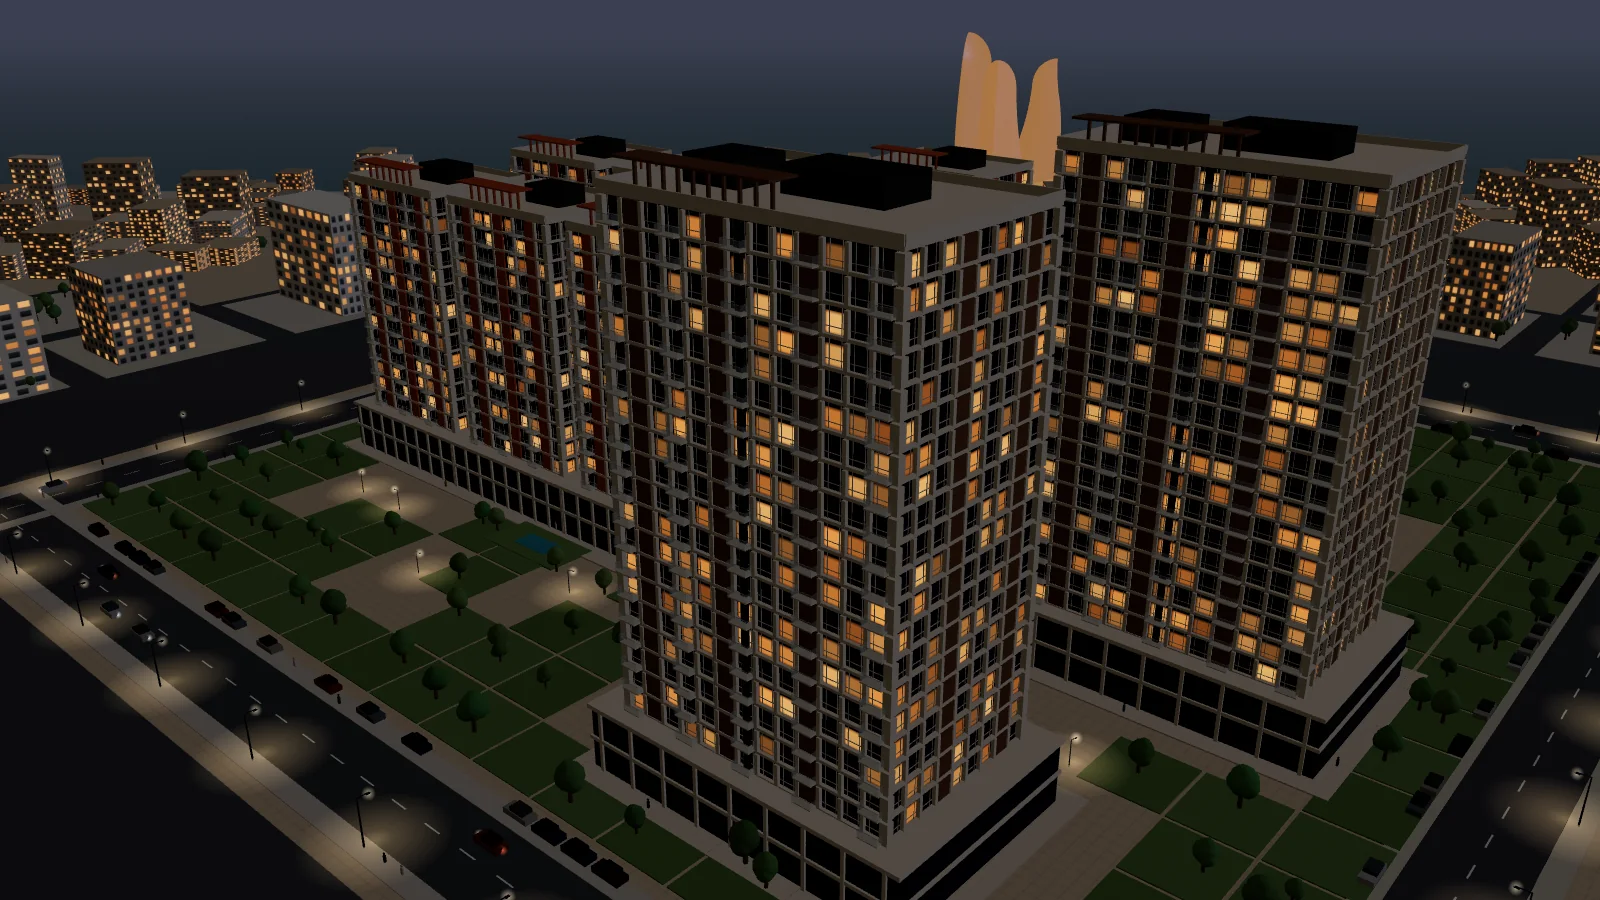
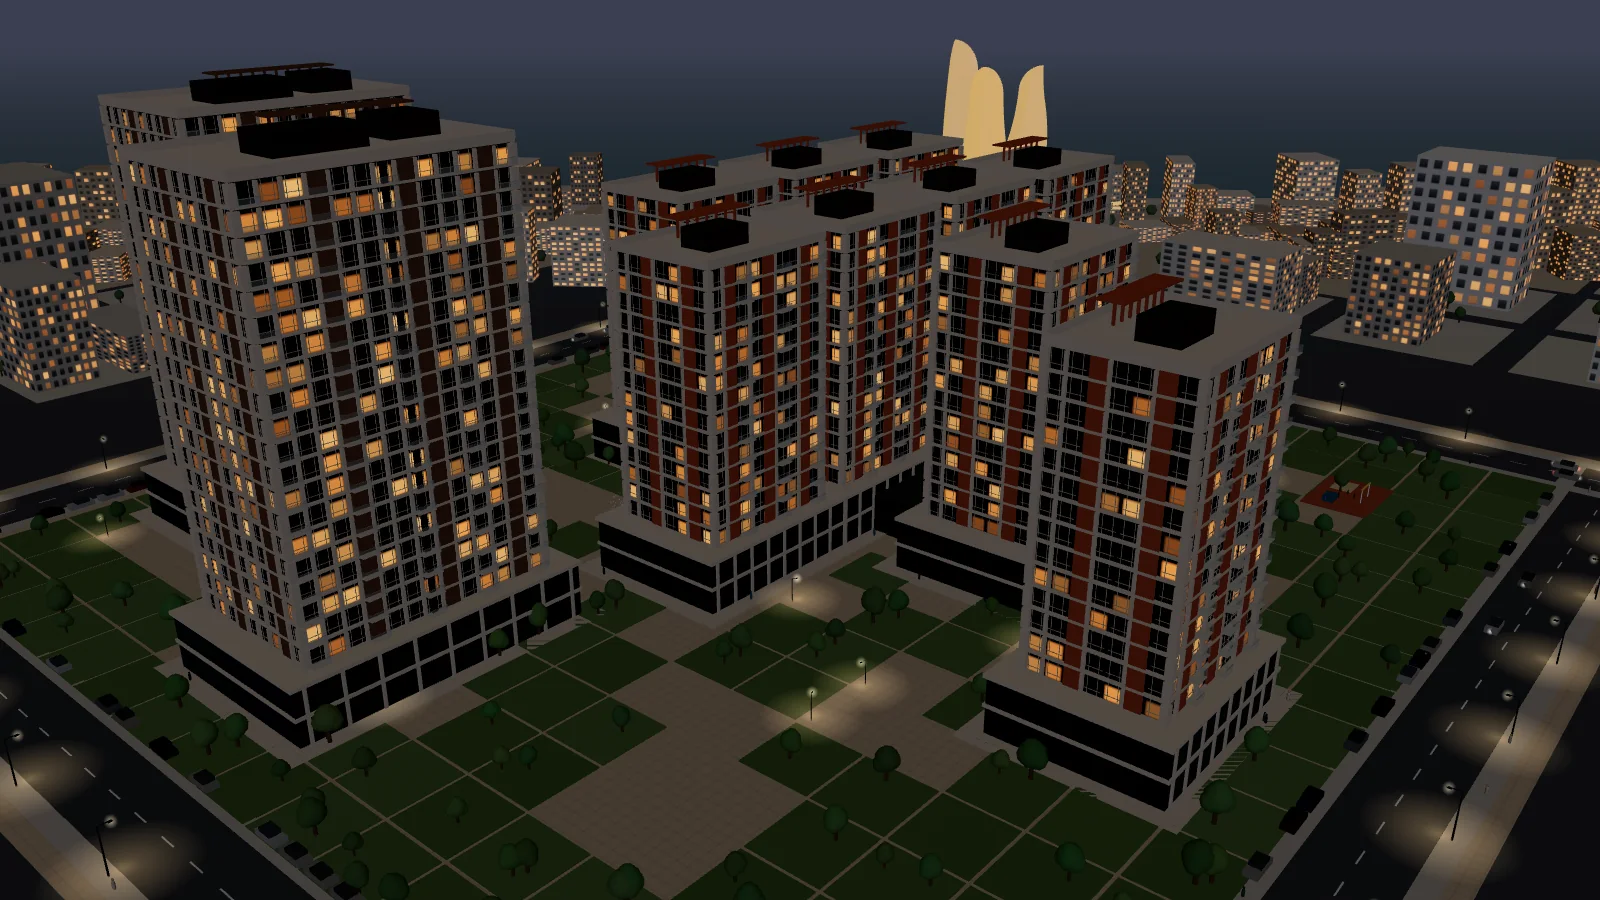
3D: mənzillərin dünya tərəfləri satış cədvəlinə uyğun — dəniz və Alov qüllələri 4-5-6 tərəfdə
Claude-Session: https://claude.ai/code/session_01UcyBfmip5XsCj1NJGVbJR9

diff --git a/3d.html b/3d.html
@@ -377,8 +377,12 @@ const RING=[];for(let i=0;i<90;i++){const a=rnd()*Math.PI*2,r=150+rnd()*90;RING.
 
 
 const FT={h:66,x:-70,z:300,y:-8,ry:0};
-/* dəniz, şəhər və Alov qüllələri (kompleksin arxa tərəfində, render istiqamətində) */
-{const bay=new THREE.Group();const f=new THREE.Vector3(-0.65,0,-0.76).normalize();bay.rotation.y=Math.atan2(f.x,f.z);scene.add(bay);
+/* 19.11.2026: dəniz/Alov qüllələri istiqaməti satış ofisinin mərtəbə cədvəlinə görə düzəldilib.
+   Mərtəbədə 1-2-3 (−z fasadı) qərbə, 4-5-6 (+z fasadı) şərqə baxır; −x ucu cənub, +x ucu şimaldır.
+   Alov qüllələri (real azimut ≈141,6°, cənub-şərq) 6-cı mənzilin küncü tərəfdədir: (−x, +z). Əvvəl (−0.65, −0.76) idi — 90° səhv. */
+const BAY_F=new THREE.Vector3(-0.76,0,0.65).normalize();
+/* dəniz, şəhər və Alov qüllələri (BAY_F istiqamətində) */
+{const bay=new THREE.Group();const f=BAY_F.clone();bay.rotation.y=Math.atan2(f.x,f.z);scene.add(bay);
  const seaMat=new THREE.MeshStandardMaterial({color:0x4f8fa6,roughness:.18,metalness:.35});SEA=seaMat;
  const sea=new THREE.Mesh(new THREE.PlaneGeometry(3200,1800),seaMat);sea.rotation.x=-Math.PI/2;sea.position.set(0,0.12,290+900);sea.receiveShadow=false;bay.add(sea);
  const shore=new THREE.Mesh(new THREE.PlaneGeometry(3200,14),MAT.paving);shore.rotation.x=-Math.PI/2;shore.position.set(0,0.1,283);bay.add(shore);
@@ -537,11 +541,11 @@ const BALX=(()=>{const n=Math.round(W/3),bw=W/n,o=[];for(let i=0;i<n;i+=3)o.push
 /* ---------- 15.11 «Eyvandan mənzərə»: seçilmiş mənzilin hündürlüyündən ətrafa baxış ---------- */
 let VIEW=null;
 function viewFrom(u){if(VIEW||!SEL)return;const t=(floors[SEL].tiles||[]).find(x=>x.userData.u===u);if(!t)return;
- const side=(t.userData.face&&t.userData.face[0].z)||-1,y=floors[SEL].y0+1.62,bx=BALX.reduce((a,b)=>Math.abs(b-t.position.x)<Math.abs(a-t.position.x)?b:a),pos=new THREE.Vector3(bx,y,side*(D/2+0.55)),tgt=pos.clone().add(new THREE.Vector3(0,-0.06,side*0.7));
+ const side=(t.userData.face&&t.userData.face[0].z)||-1,y=floors[SEL].y0+1.62,bx=BALX.reduce((a,b)=>Math.abs(b-t.position.x)<Math.abs(a-t.position.x)?b:a),pos=new THREE.Vector3(bx,y,side*(D/2+0.55)),tgt=pos.clone().add(new THREE.Vector3(side*BAY_F.z>0?BAY_F.x*0.55:0,-0.06,side*0.7)); /* dəniz tərəfində baxış əvvəlcədən Alov qüllələrinə doğru çevrilir */
  VIEW={cam:camera.position.clone(),tgt:controls.target.clone(),c:['minDistance','maxDistance','minPolarAngle','maxPolarAngle','minAzimuthAngle','maxAzimuthAngle','rotateSpeed','enableZoom'].reduce((o,k)=>(o[k]=controls[k],o),{}),fog:[scene.fog.near,scene.fog.far],fov:camera.fov,side};
  closePanel(true);lblBox.style.display='none';document.body.classList.add('view');for(let k=F0;k<=F1;k++){floors[k].grp.visible=true;}floors[SEL].shell.visible=true;roof.visible=true;controls.autoRotate=false;
  controls.minDistance=0.2;controls.maxDistance=4000;controls.enableZoom=false;
- $('vtitle').textContent='Mənzil № '+u.n+' · '+ord(SEL)+' mərtəbə';$('vsub').textContent='Yerdən ~'+Math.round(y-0.1)+' m · '+(side<0?'dəniz və Alov qüllələri tərəfi':'şəhər tərəfi')+' · ətrafa baxmaq üçün sürüşdürün';$('vbar').classList.add('on');
+ $('vtitle').textContent='Mənzil № '+u.n+' · '+ord(SEL)+' mərtəbə';$('vsub').textContent='Yerdən ~'+Math.round(y-0.1)+' m · '+(side*BAY_F.z>0?'dəniz və Alov qüllələri tərəfi':'şəhər tərəfi')+' · ətrafa baxmaq üçün sürüşdürün';$('vbar').classList.add('on');
  const f0=scene.fog.near,f1=scene.fog.far,fv=camera.fov,t0=performance.now();
  (function fz(){const k=Math.min(1,(performance.now()-t0)/1600);scene.fog.near=f0+(520-f0)*k;scene.fog.far=f1+(2600-f1)*k;camera.fov=fv+(58-fv)*k;camera.updateProjectionMatrix();if(k<1&&VIEW)requestAnimationFrame(fz);})();
  flyTo(pos,tgt,1700,()=>{if(!VIEW)return;const nrm=a=>Math.atan2(Math.sin(a),Math.cos(a)),base=Math.atan2(0,-side);
@@ -554,7 +558,7 @@ function exitView(){if(!VIEW)return;const V=VIEW;VIEW=null;$('vbar').classList.r
 document.getElementById('vback').addEventListener('click',exitView);
 document.getElementById('mkbtn').addEventListener('click',maketOn);document.getElementById('mkx').addEventListener('click',maketOff);document.getElementById('mkn').addEventListener('click',maketNight);
 if(new URLSearchParams(location.search).get('maket')==='1')setTimeout(maketOn,600);
-window.__lux3d={info:()=>({calls:renderer.info.render.calls,tris:renderer.info.render.triangles}),tod:m=>setTOD(m),tour:()=>startTour(),tourAt:i=>{startTour();anim=null;TOUR.i=i;const st=TOUR.steps[i];camera.position.copy(st.p);controls.target.copy(st.t);if(st.cap){$('tcT').textContent=st.cap[0];$('tcS').textContent=st.cap[1];}TOUR.i=99;},night:(m)=>{SUN.on=true;const n=bakuNow();SUN.doy=doyOf(n.m,n.d);SUN.min=m||1290;applySun();},cam:(x,y,z)=>{anim=null;controls.autoRotate=false;const c=SITE.position.clone().add(MK.center||new THREE.Vector3());camera.position.set(c.x+x,y,c.z+z);controls.target.set(c.x,8,c.z);controls.update();},maket:()=>maketOn(),maketNight:()=>maketNight(),view:n=>{const t=(floors[SEL]&&floors[SEL].tiles||[]).find(x=>String(x.userData.u.n)===String(n))||(floors[SEL].tiles||[])[0];if(t){openApt(t.userData.u);viewFrom(t.userData.u);}},exitView};
+window.__lux3d={dirs:f=>{selectFloor(f,true);return (floors[f].tiles||[]).map(t=>[t.userData.u.n,t.userData.u.area,t.userData.face.map(v=>dirName(worldToBearing(v))).join('+')]);},view:n=>{const t=(floors[SEL].tiles||[]).find(x=>String(x.userData.u.n)===String(n));if(t)viewFrom(t.userData.u);},bina:b=>switchBina(b),info:()=>({calls:renderer.info.render.calls,tris:renderer.info.render.triangles}),tod:m=>setTOD(m),tour:()=>startTour(),tourAt:i=>{startTour();anim=null;TOUR.i=i;const st=TOUR.steps[i];camera.position.copy(st.p);controls.target.copy(st.t);if(st.cap){$('tcT').textContent=st.cap[0];$('tcS').textContent=st.cap[1];}TOUR.i=99;},night:(m)=>{SUN.on=true;const n=bakuNow();SUN.doy=doyOf(n.m,n.d);SUN.min=m||1290;applySun();},cam:(x,y,z)=>{anim=null;controls.autoRotate=false;const c=SITE.position.clone().add(MK.center||new THREE.Vector3());camera.position.set(c.x+x,y,c.z+z);controls.target.set(c.x,8,c.z);controls.update();},maket:()=>maketOn(),maketNight:()=>maketNight(),view:n=>{const t=(floors[SEL]&&floors[SEL].tiles||[]).find(x=>String(x.userData.u.n)===String(n))||(floors[SEL].tiles||[])[0];if(t){openApt(t.userData.u);viewFrom(t.userData.u);}},exitView};
 addEventListener('keydown',e=>{if(e.key==='Escape'&&VIEW)exitView();});
 
 /* ---------- floor interior (sxematik) ---------- */
@@ -565,7 +569,7 @@ function buildInner(f){
  box(W-0.3,0.12,D-0.3,MAT.slab,0,y+0.06,0,inner,false);
  box(W+0.3,1.0,0.25,MAT.cream,0,y+0.5,D/2,inner);box(W+0.3,1.0,0.25,MAT.cream,0,y+0.5,-D/2,inner);box(0.25,1.0,D,MAT.cream,W/2,y+0.5,0,inner);box(0.25,1.0,D,MAT.cream,-W/2,y+0.5,0,inner);
  box(7,2.6,3.6,MAT.core,0,y+1.3,0,inner);
- /* №1 dəniz və Alov qüllələri tərəfdə (-z, -x küncü); nömrələr mərtəbə ətrafında ardıcıl: dəniz tərəfi soldan sağa 1,2,3, arxa tərəf sağdan sola 4,5,6 */
+ /* Nömrələr mərtəbə ətrafında ardıcıl: −z fasadı (qərb) 1,2,3; +z fasadı (şərq, dəniz tərəfi) 4,5,6 — №6 Alov qüllələrinə ən yaxın küncdədir (−x, +z). */
  const us=units(f),n=us.length,south=us.slice(0,Math.ceil(n/2)),north=us.slice(Math.ceil(n/2)).reverse();
  const tiles=[];
  [[north,1],[south,-1]].forEach(([row,side])=>{
@@ -579,7 +583,7 @@ function buildInner(f){
   box(0.18,1.0,dz,MAT.wall,W/2-0.3,y+0.55,zc,inner);
   box(W-0.6,1.0,0.18,MAT.wall,0,y+0.55,z0,inner);
  });
- F.dirP=new THREE.Vector3(-4,y+1.2,-D/2-5);F.tiles=tiles;return tiles;
+ F.dirP=new THREE.Vector3(-W/4,y+1.2,Math.sign(BAY_F.z)*(D/2+5));F.tiles=tiles;return tiles;
 }
 
 /* ---------- labels ---------- */
@@ -649,7 +653,7 @@ canvas.addEventListener('pointerup',e=>{if(INT.on||!down)return;const moved=Math
 /* ---------- günəş və kölgə (Bakı, real günəş mövqeyi) ---------- */
 /* Kompleks: 40.36664, 49.81879. Şimal istiqaməti Alov qüllələrinə görə kalibrlənib (kompleksdən azimut ≈141.6°). */
 const LAT=40.36664,LON=49.81879,TZ=4,RAD=Math.PI/180;
-const PHI_N=(()=>{const f=new THREE.Vector3(-0.65,0,-0.76).normalize(),th=Math.atan2(f.x,f.z),x=-70,z=300;
+const PHI_N=(()=>{const f=BAY_F.clone(),th=Math.atan2(f.x,f.z),x=-70,z=300;
  const wx=x*Math.cos(th)+z*Math.sin(th),wz=-x*Math.sin(th)+z*Math.cos(th);return Math.atan2(wx,wz)+141.6*RAD;})();
 function bearingToWorld(b){const p=PHI_N-b*RAD;return new THREE.Vector3(Math.sin(p),0,Math.cos(p));}
 function worldToBearing(v){let b=(PHI_N-Math.atan2(v.x,v.z))/RAD;return ((b%360)+360)%360;}
@@ -916,7 +920,7 @@ const lampPools=(()=>{const cg=new THREE.CircleGeometry(9,20);cg.rotateX(-Math.P
 
 /* ---------- ətraf məhəllə ---------- */
 const NEIGH={g:new THREE.Group(),cars:[]};SITE.add(NEIGH.g);
-{const {X0,X1,Z0,Z1,CX,CZ,WX,WZ}=LAND.b,S=48,RG=450,f=new THREE.Vector3(-0.65,0,-0.76).normalize(),G=NEIGH.g;let sd=91;const r4=()=>{sd=(sd*16807)%2147483647;return sd/2147483647;};
+{const {X0,X1,Z0,Z1,CX,CZ,WX,WZ}=LAND.b,S=48,RG=450,f=BAY_F.clone(),G=NEIGH.g;let sd=91;const r4=()=>{sd=(sd*16807)%2147483647;return sd/2147483647;};
  const mm=(c,o={})=>new THREE.MeshStandardMaterial(Object.assign({color:c,roughness:.9},o)),o3=new THREE.Object3D(),col=new THREE.Color();
  /* kompleksin ətrafında enli asfalt zolağı */
  {const a=mm(0x5e6065),fr=60;[[CX,Z0-fr/2,WX+fr*2,fr],[CX,Z1+fr/2,WX+fr*2,fr],[X0-fr/2,CZ,fr,WZ],[X1+fr/2,CZ,fr,WZ]].forEach(([x,z,w,d])=>{const p=new THREE.Mesh(new THREE.PlaneGeometry(w,d),a);p.rotation.x=-Math.PI/2;p.position.set(x,.03,z);p.receiveShadow=true;G.add(p);});}

diff --git a/LAYIHE-DURUMU.md b/LAYIHE-DURUMU.md
@@ -669,3 +669,13 @@ nc/sayt.html «Sorğular» tabı: cədvəl əvəzinə kartlar (ad, telefon, növ
 ### Nizami City ana səhifə: 3 dizayn istiqaməti (18.11.2026, seçim gözləyir)
 - Kətan: https://claude.ai/artifact/9zbqPBeGXNUqgUB7B4HRro — A «Jurnal» (açıq krem fon, Imbue serif başlıqlar, iri foto mozaikası), B «Alət» (ağ fon, axtarış paneli və plan kartları öndə), C «Kino» (tünd zeytun fon, 5 nömrəli səhnə, nəhəng yazı). Hamısı brend rəngləri və real məzmunla (rəqəmlər saytdan; uydurma yoxdur).
 - Nihat seçəndən sonra seçilən istiqamət `nc/site-src/v3`-də qurulacaq. Hələ canlıda heç nə dəyişməyib.
+
+## 19.11.2026 — 3D (3d.html): mənzillərin dünya tərəfləri satış ofisinin cədvəlinə uyğunlaşdırıldı
+- Mənbə: Nihatın göndərdiyi əlyazma cədvəl (16-cı mərtəbə): №1 111,64 cənub-qərb · №2 70,37 qərb · №3 134,33 şimal-qərb · №4 73,42 şimal-şərq · №5 150,66 şimal-şərq · №6 174,53 cənub-şərq.
+- Səbəb: 3D «№1 dəniz və Alov qüllələri tərəfdədir» fərziyyəsi ilə qurulmuşdu — hər mənzil 90° səhv idi. Əslində dənizə baxan fasad 4-5-6-dır, №6 Alov qüllələrinə ən yaxın küncdədir.
+- Düzəliş: yeni tək sabit `BAY_F=(-0.76,0,0.65)` (əvvəl 3 yerdə təkrarlanan `(-0.65,0,-0.76)`): dəniz/şəhər/Alov qüllələri qrupu (`bay`), kompas (`PHI_N`) və qonşu məhəllələr (`NEIGH`) ondan asılıdır. Nəticə: −z fasadı (1,2,3) = qərb, +z (4,5,6) = şərq, −x ucu = cənub, +x ucu = şimal; Alov qüllələri 141,6° (cənub-şərq). Binanın həndəsəsi və mənzil nömrələmə dəyişməyib.
+- Ardınca: «Dəniz · Alov qüllələri tərəfi» nişanı 4-5-6 tərəfə keçdi; «Eyvandan mənzərə»də dəniz tərəfi `side*BAY_F.z>0` ilə təyin olunur və baxış əvvəlcədən qüllələrə doğru çevrilir; tur «Mənzərə» addımı avtomatik uyğunlaşır; günəş/kölgə və mənzil panelindəki «Pəncərələr … tərəfə baxır» yeni kompasla hesablanır.
+- Yoxlama (headless, Bina 3, 16-cı və 10-cu mərtəbə): 1 Qərb+Cənub, 2 Qərb, 3 Qərb+Şimal, 4 Şərq+Şimal, 5 Şərq, 6 Şərq+Cənub — cədvəllə eyni (yalnız №5 cədvəldə «şm-şq», 3D-də sırf şərq). Konsol xətası yoxdur.
+- Ana səhifənin gündüz/gecə müqayisə şəkilləri (`assets/3d-gunduz.webp`, `3d-gece.webp`) yeni səhnədən yenidən çəkildi: `__lux3d.cam(175,100,-150)`.
+- Yeni test qarmaqları: `__lux3d.dirs(mərtəbə)` (hər mənzilin tərəfi), `.view(n)` (eyvan baxışı), `.bina('Bina 4')`.
+- QEYD: bütün binalar eyni oriyentasiya ilə modellənib; cədvəl bir bina üçündür. Başqa binalar fərqli dönübsə, bina üzrə ayrıca fırlanma lazım olacaq (hələ yoxdur).
